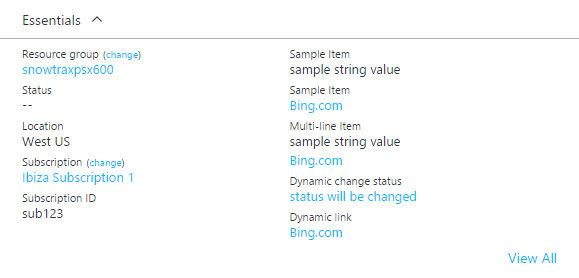
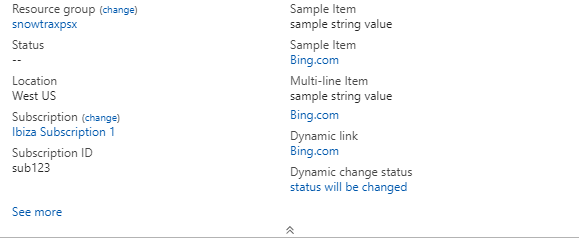
#10055909 Essentials doc update CR:brado,amitmod

diff --git a/portal-sdk/templates/portalfx-controls-essentials.md b/portal-sdk/templates/portalfx-controls-essentials.md
@@ -3,8 +3,8 @@
 The essentials control is used for showing resource information with multiple properties.
 First 5 items in left pane of the essentials are obtained by calling Azure Resource Manager APIs with given resource id.
 More items can be specified in constructor or can be added dynamically later in both left and right panes.
-It has flexibility to customize layout and showing items without resource id.
-When there are more than 5 items in any panes, only first 5 items in each panes will be shown and rest of the items can be revealed when **View All** is clicked.
+It has flexibility to customize layout of properties in a column, to show properties for non-ARM resources, to responsively redistribute properties into 1 or 3+ columns when the Blade width shrinks or expands.
+When there are more than 5 items in any panes, only first 5 items in each panes will be shown and rest of the items can be revealed when **See more** is clicked.
 
 ![Essentials][essentials-sample]
 
@@ -23,6 +23,7 @@ When there are more than 5 items in any panes, only first 5 items in each panes 
 ### Features
 - [Resource Blade Open/Close Callbacks](#essentialsCallbacks)
 - [Add Dynamic Properties](#essentialsDynamicProps)
+- [Responsive Columns](#responsiveEssentials)
 
 <br><br>
 
@@ -134,21 +135,23 @@ To use the essentials, compose a template blade that hosts the essentials contro
 
 You can control the behavior of the essentials via initialization [options](#essentialsOptions) and provided [feature](#essentialsFeatures) functions.
 
-**Step 1**: Define the Html template for your part:
+**Step 1**: Setup `Settings` interface for preserving `expanded` state for Essentials. `Decorator`s for set `TemplateBlade` and access to the blade settings.
 
-`\Client\V1\Controls\Essentials\Templates\Essentials.html`
+`\Client\V2\Controls\Essentials\EssentialsDefaultBlade.ts`
 
-**Step 2**: Create a viewmodel to bind your control to `DefaultEssentialsViewModel` implements the viewmodel for the editor.
+{"gitdown":"include-section","file":"../Samples/SamplesExtension/Extension/Client/V2/Controls/Essentials/EssentialsDefaultBlade.ts","section":"essentials#setupBladeDefault"}
 
-`\Client\V1\Controls\Essentials\ViewModels\DefaultEssentialsViewModel.ts.`
+**Step 2**: Configurations for Read/Write `expanded` state in the blade settings and initialize the essentials control.
 
-{"gitdown":"include-section","file":"../Samples/SamplesExtension/Extension/Client/V1/Controls/Essentials/ViewModels/DefaultEssentialsViewModel.ts","section":"essentials#defaultEssentialsViewModel"}
+`\Client\V2\Controls\Essentials\EssentialsDefaultBlade.ts`
 
-**Step 3**: Now you can consume your part from an extension by referencing it in the PDL:
+{"gitdown":"include-section","file":"../Samples/SamplesExtension/Extension/Client/V2/Controls/Essentials/EssentialsDefaultBlade.ts","section":"essentials#startBladeDefault"}
 
-`\Client\V1\Controls\Essentials\Essentials.pdl`
+**Step 3**: Define the `_initializeControl` that initializes the essentials control.
 
-{"gitdown":"include-section","file":"../Samples/SamplesExtension/Extension/Client/V1/Controls/Essentials/Essentials.pdl","section":"essentials#defaultpdl"}
+`\Client\V2\Controls\Essentials\EssentialsDefaultBlade.ts`
+
+{"gitdown":"include-section","file":"../Samples/SamplesExtension/Extension/Client/V2/Controls/Essentials/EssentialsDefaultBlade.ts","section":"essentials#initControlDefault"}
 
 <a name="customLayoutEssentials"></a>
 #### Custom Layout
@@ -159,21 +162,23 @@ Custom layout essentials allows you to change layout orders of built-in properti
 
 You can control the behavior of the essentials via initialization [options](#essentialsOptions) and provided [feature](#essentialsFeatures) functions.
 
-**Step 1**: Define the Html template for your part:
+**Step 1**: Setup `Settings` interface for preserving `expanded` state for Essentials. `Decorator`s for set `TemplateBlade` and access to the blade settings.
 
-`\Client\V1\Controls\Essentials\Templates\Essentials.html`
+`\Client\V2\Controls\Essentials\EssentialsCustomLayoutBlade.ts`
 
-**Step 2**: Create a viewmodel to bind your control to `CustomLayoutEssentialsViewModel` implements the viewmodel for the editor.
+{"gitdown":"include-section","file":"../Samples/SamplesExtension/Extension/Client/V2/Controls/Essentials/EssentialsCustomLayoutBlade.ts","section":"essentials#setupBladeCustomLayout"}
 
-`\Client\V1\Controls\Essentials\ViewModels\CustomLayoutEssentialsViewModel.ts.`
+**Step 2**: Configurations for Read/Write `expanded` state in the blade settings and initialize the essentials control.
 
-{"gitdown":"include-section","file":"../Samples/SamplesExtension/Extension/Client/V1/Controls/Essentials/ViewModels/CustomLayoutEssentialsViewModel.ts","section":"essentials#customLayoutEssentialsViewModel"}
+`\Client\V2\Controls\Essentials\EssentialsCustomLayoutBlade.ts`
 
-**Step 3**: Now you can consume your part from an extension by referencing it in the PDL:
+{"gitdown":"include-section","file":"../Samples/SamplesExtension/Extension/Client/V2/Controls/Essentials/EssentialsCustomLayoutBlade.ts","section":"essentials#startBladeCustomLayout"}
 
-`\Client\V1\Controls\Essentials\Essentials.pdl`
+**Step 3**: Define the `_initializeControl` that initializes the essentials control.
 
-{"gitdown":"include-section","file":"../Samples/SamplesExtension/Extension/Client/V1/Controls/Essentials/Essentials.pdl","section":"essentials#custompdl"}
+`\Client\V2\Controls\Essentials\EssentialsCustomLayoutBlade.ts`
+
+{"gitdown":"include-section","file":"../Samples/SamplesExtension/Extension/Client/V2/Controls/Essentials/EssentialsCustomLayoutBlade.ts","section":"essentials#initControlCustomLayout"}
 
 <a name="nonResourceEssentials"></a>
 #### Non-Resource
@@ -184,21 +189,23 @@ Non-resource essentials allows you to use the essentials without a resource id. 
 
 You can control the behavior of the essentials via initialization [options](#essentialsOptions) and provided [feature](#essentialsFeatures) functions.
 
-**Step 1**: Define the Html template for your part:
+**Step 1**: Setup `Settings` interface for preserving `expanded` state for Essentials. `Decorator`s for set `TemplateBlade` and access to the blade settings.
 
-`\Client\V1\Controls\Essentials\Templates\Essentials.html`
+`\Client\V2\Controls\Essentials\EssentialsNonResourceBlade.ts`
 
-**Step 2**: Create a viewmodel to bind your control to `NonResourceEssentialsViewModel` implements the viewmodel for the editor.
+{"gitdown":"include-section","file":"../Samples/SamplesExtension/Extension/Client/V2/Controls/Essentials/EssentialsNonResourceBlade.ts","section":"essentials#setupBladeNonResource"}
 
-`\Client\V1\Controls\Essentials\ViewModels\NonResourceEssentialsViewModel.ts.`
+**Step 2**: Configurations for Read/Write `expanded` state in the blade settings and initialize the essentials control.
 
-{"gitdown":"include-section","file":"../Samples/SamplesExtension/Extension/Client/V1/Controls/Essentials/ViewModels/NonResourceEssentialsViewModel.ts","section":"essentials#nonResourceEssentialsViewModel"}
+`\Client\V2\Controls\Essentials\EssentialsNonResourceBlade.ts`
 
-**Step 3**: Now you can consume your part from an extension by referencing it in the PDL:
+{"gitdown":"include-section","file":"../Samples/SamplesExtension/Extension/Client/V2/Controls/Essentials/EssentialsNonResourceBlade.ts","section":"essentials#startBladeNonResource"}
 
-`\Client\V1\Controls\Essentials\Essentials.pdl`
+**Step 3**: Define the `_initializeControl` that initializes the essentials control.
 
-{"gitdown":"include-section","file":"../Samples/SamplesExtension/Extension/Client/V1/Controls/Essentials/Essentials.pdl","section":"essentials#nonresourcepdl"}
+`\Client\V2\Controls\Essentials\EssentialsNonResourceBlade.ts`
+
+{"gitdown":"include-section","file":"../Samples/SamplesExtension/Extension/Client/V2/Controls/Essentials/EssentialsNonResourceBlade.ts","section":"essentials#initControlNonResource"}
 
 ### Features
 
@@ -209,18 +216,28 @@ Resource blade open/close callback functions are provided and can be used for lo
 
 Note that this feature is not available in `NonResource` essentials.
 
-`\Client\V1\Controls\Essentials\ViewModels\DefaultEssentialsViewModel.ts.`
+`\Client\V2\Controls\Essentials\EssentialsDefaultBlade.ts`
 
-{"gitdown":"include-section","file":"../Samples/SamplesExtension/Extension/Client/V1/Controls/Essentials/ViewModels/DefaultEssentialsViewModel.ts","section":"essentials#bladeCallbacks"}
+{"gitdown":"include-section","file":"../Samples/SamplesExtension/Extension/Client/V2/Controls/Essentials/EssentialsDefaultBlade.ts","section":"essentials#bladeCallbacks"}
 
 <a name="essentialsDynamicProps"></a>
 #### Add Dynamic Properties
 
-`\Client\V1\Controls\Essentials\ViewModels\DefaultEssentialsViewModel.ts.`
+`\Client\V2\Controls\Essentials\EssentialsDefaultBlade.ts`
 
-{"gitdown":"include-section","file":"../Samples/SamplesExtension/Extension/Client/V1/Controls/Essentials/ViewModels/DefaultEssentialsViewModel.ts","section":"essentials#addDynamicProps"}
+{"gitdown":"include-section","file":"../Samples/SamplesExtension/Extension/Client/V2/Controls/Essentials/EssentialsDefaultBlade.ts","section":"essentials#addDynamicProps"}
 
 As the above code shows, the sample AJAX response contains 4 properties. First 2 items are added to left pane and last 2 items are added to right pane.
 
+<a name="responsiveEssentials"></a>
+#### Responsive Columns
+
+`\Client\V2\Controls\Essentials\EssentialsResponsiveBlade.ts`
+
+{"gitdown":"include-section","file":"../Samples/SamplesExtension/Extension/Client/V2/Controls/Essentials/EssentialsResponsiveBlade.ts","section":"essentials#responsive"}
+
+The optional `boolean` property `responsiveColumns` can be specified to `true` to use responsive columns feature.
+
+`Small` sized blade will contain single column and full screen will contain multiple number of columns depends on the blade's width.
 
 [essentials-sample]: ../media/portalfx-controls/essentials.png
